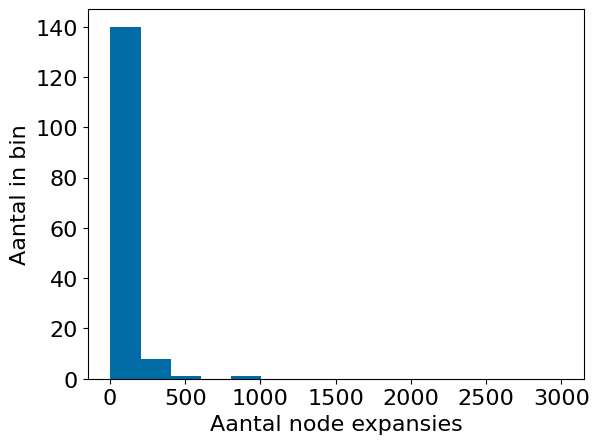
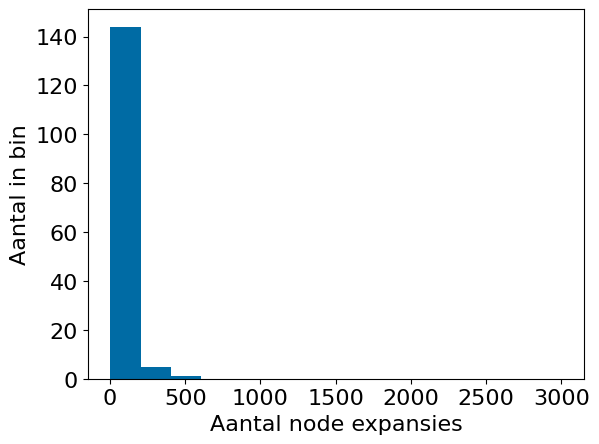
Brugge : 36750 12471 0.01130331834157308 0.008929492632548015

diff --git a/linear.py b/linear.py
@@ -17,14 +17,14 @@ def list_maker(euclid_distance, previous_euclid, amount_travelled, travel_time):
 
     # new2 =  (euclid_distance ** 4 + 1) / (euclid_distance ** 2 + euclid_distance ** 4 + 10)
     
-    return np.array([amount_travelled, euclid_distance, travel_time, difference,  1/amount_travelled, 1/difference,1/(euclid_distance+0.1), 1/travel_time])
+    return np.array([amount_travelled, euclid_distance, travel_time, difference,  1/amount_travelled, 1/difference,1/(euclid_distance+0.1)])
 
 def add_amount_of_visited_weights(graph, number_of_landmarks, cutoff=False):
 
     landmarks_tot = random.sample(list(graph.nodes()), number_of_landmarks) # without repetition
 
-    landmarks1 = landmarks_tot[:len(landmarks_tot)//4]
-    landmarks2 = landmarks_tot[len(landmarks_tot)//4:]
+    landmarks1 = landmarks_tot[:len(landmarks_tot)//2]
+    landmarks2 = landmarks_tot[len(landmarks_tot)//2:]
     path_list = list()
     
     for u, v in graph.edges():

diff --git a/compare_node_expansion.py b/compare_node_expansion.py
@@ -257,6 +257,6 @@ def prepare_plot_errorbar_logistic(computed_list, weight_path,  binsize):
 # make_graphs_NN('Brugge', 50)
 # name_list = ['New Dehli','Brugge','Nairobi', 'Rio de Janeiro', 'Manhattan']
 
-name_list = ['New Dehli']
+name_list = ['Brugge']
 for name in name_list:
-    make_graphs_logistic(name, 150, 10, cutoff=False)
+    make_graphs_logistic(name, 150, 15, cutoff=False)
